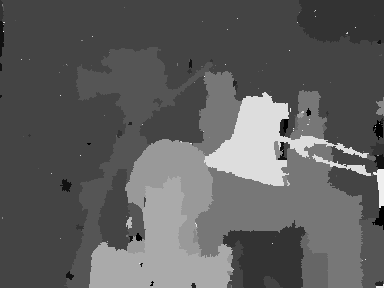
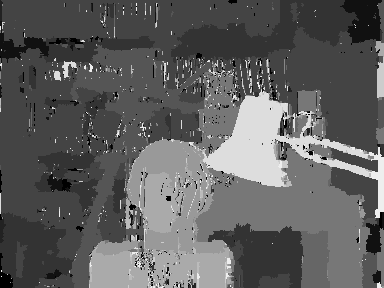
almost done

diff --git a/stereoMatching.py b/stereoMatching.py
@@ -270,7 +270,7 @@ def swap(dDict,dLL,l1,r1,disInd):
 			success = 0
 			# finalL.append(dLL)
 		else:
-			return
+			return dis_image
 
 def main():
 	left_image = imageProcess('scene1.row3.col1.ppm')
@@ -284,7 +284,11 @@ def main():
 
 	initial= initState(left_image,right_image,disInd)
 	print("Initial State Done!\n Now Swap")
-	swap(initial[1],initial[0],left_image,right_image,disInd)
+	result_image = swap(initial[1],initial[0],left_image,right_image,disInd)
+
+	result_median_image = cv2.medianBlur(result_image,3)
+	cv2.imwrite('Final Result with Median Filter.png',result_median_image)
+
 
 
 
